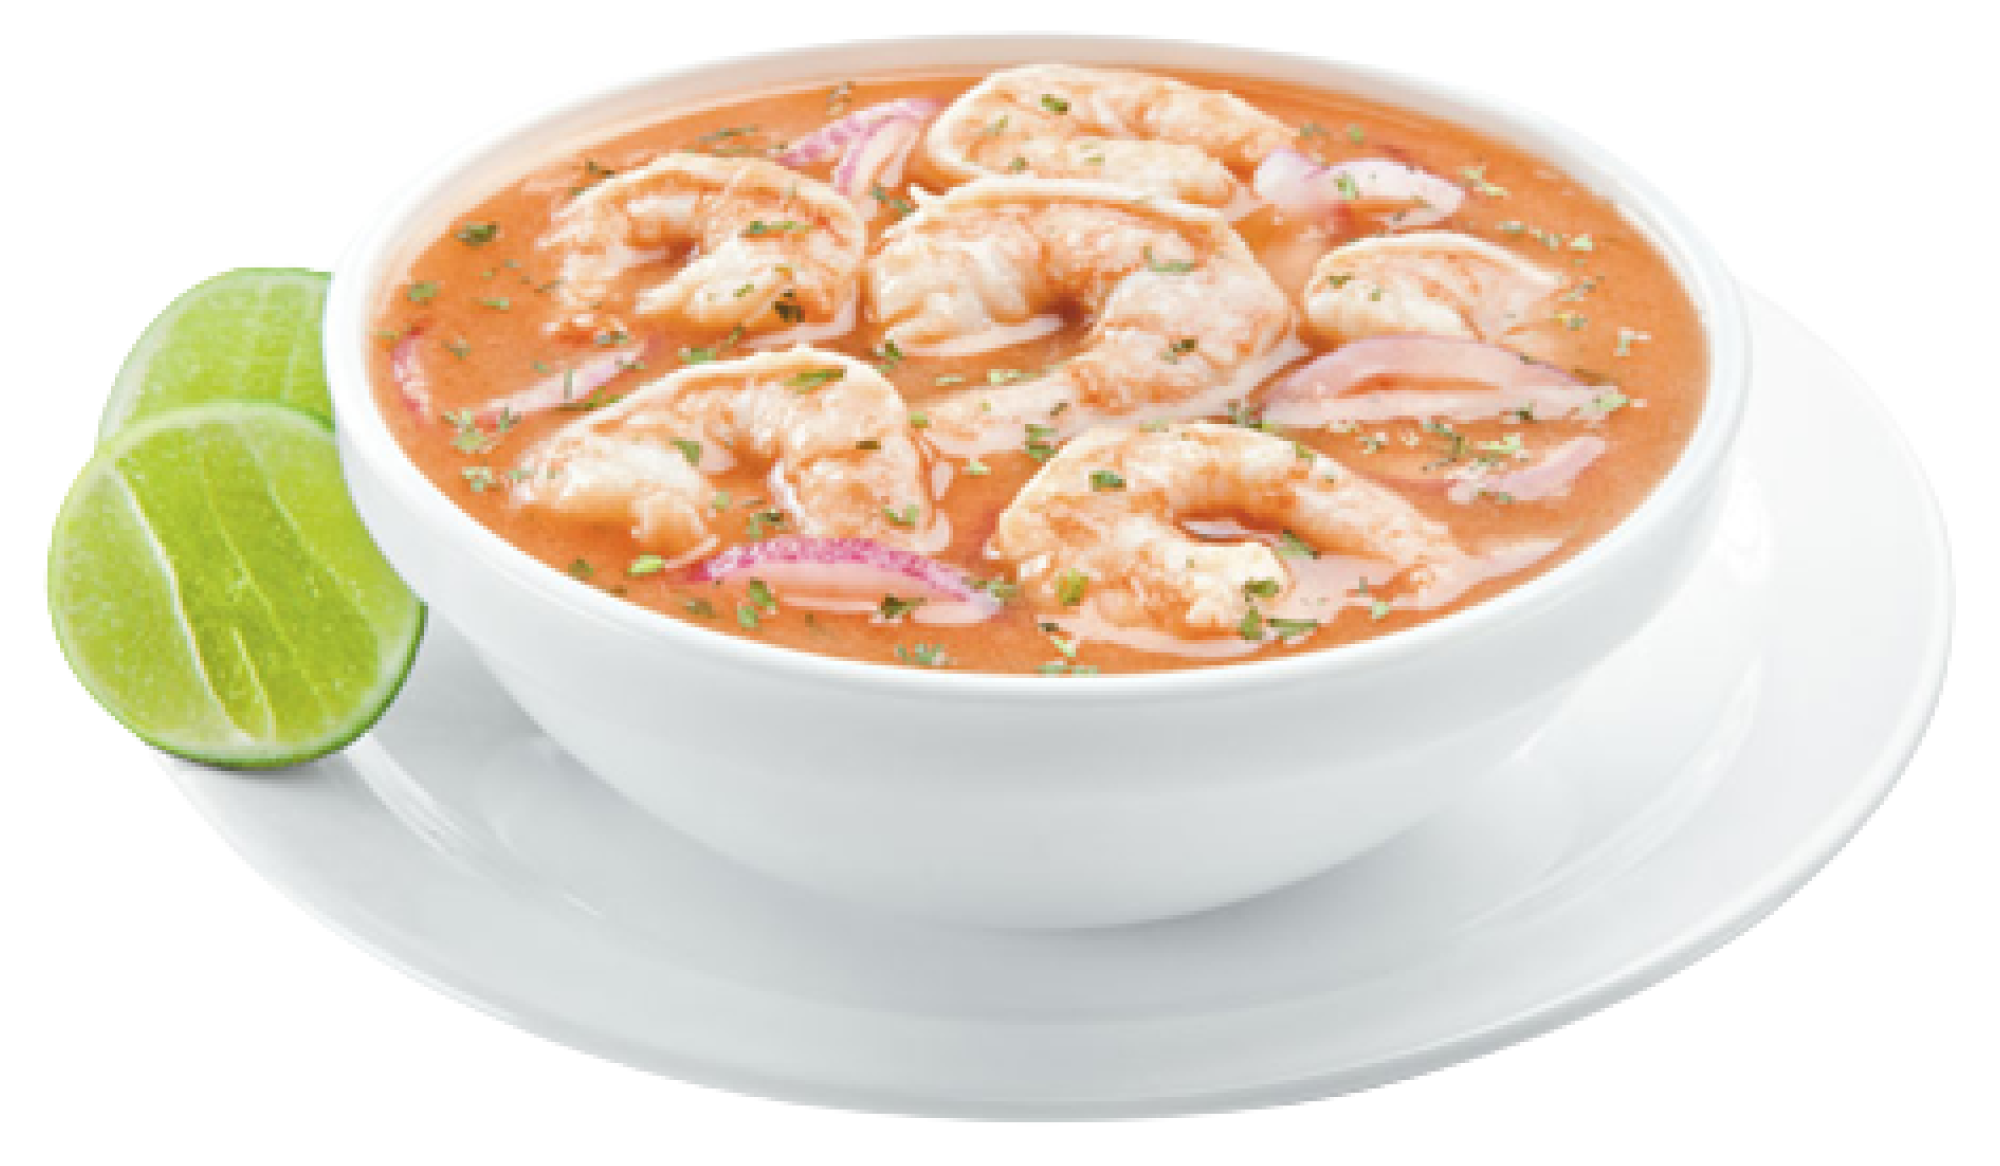
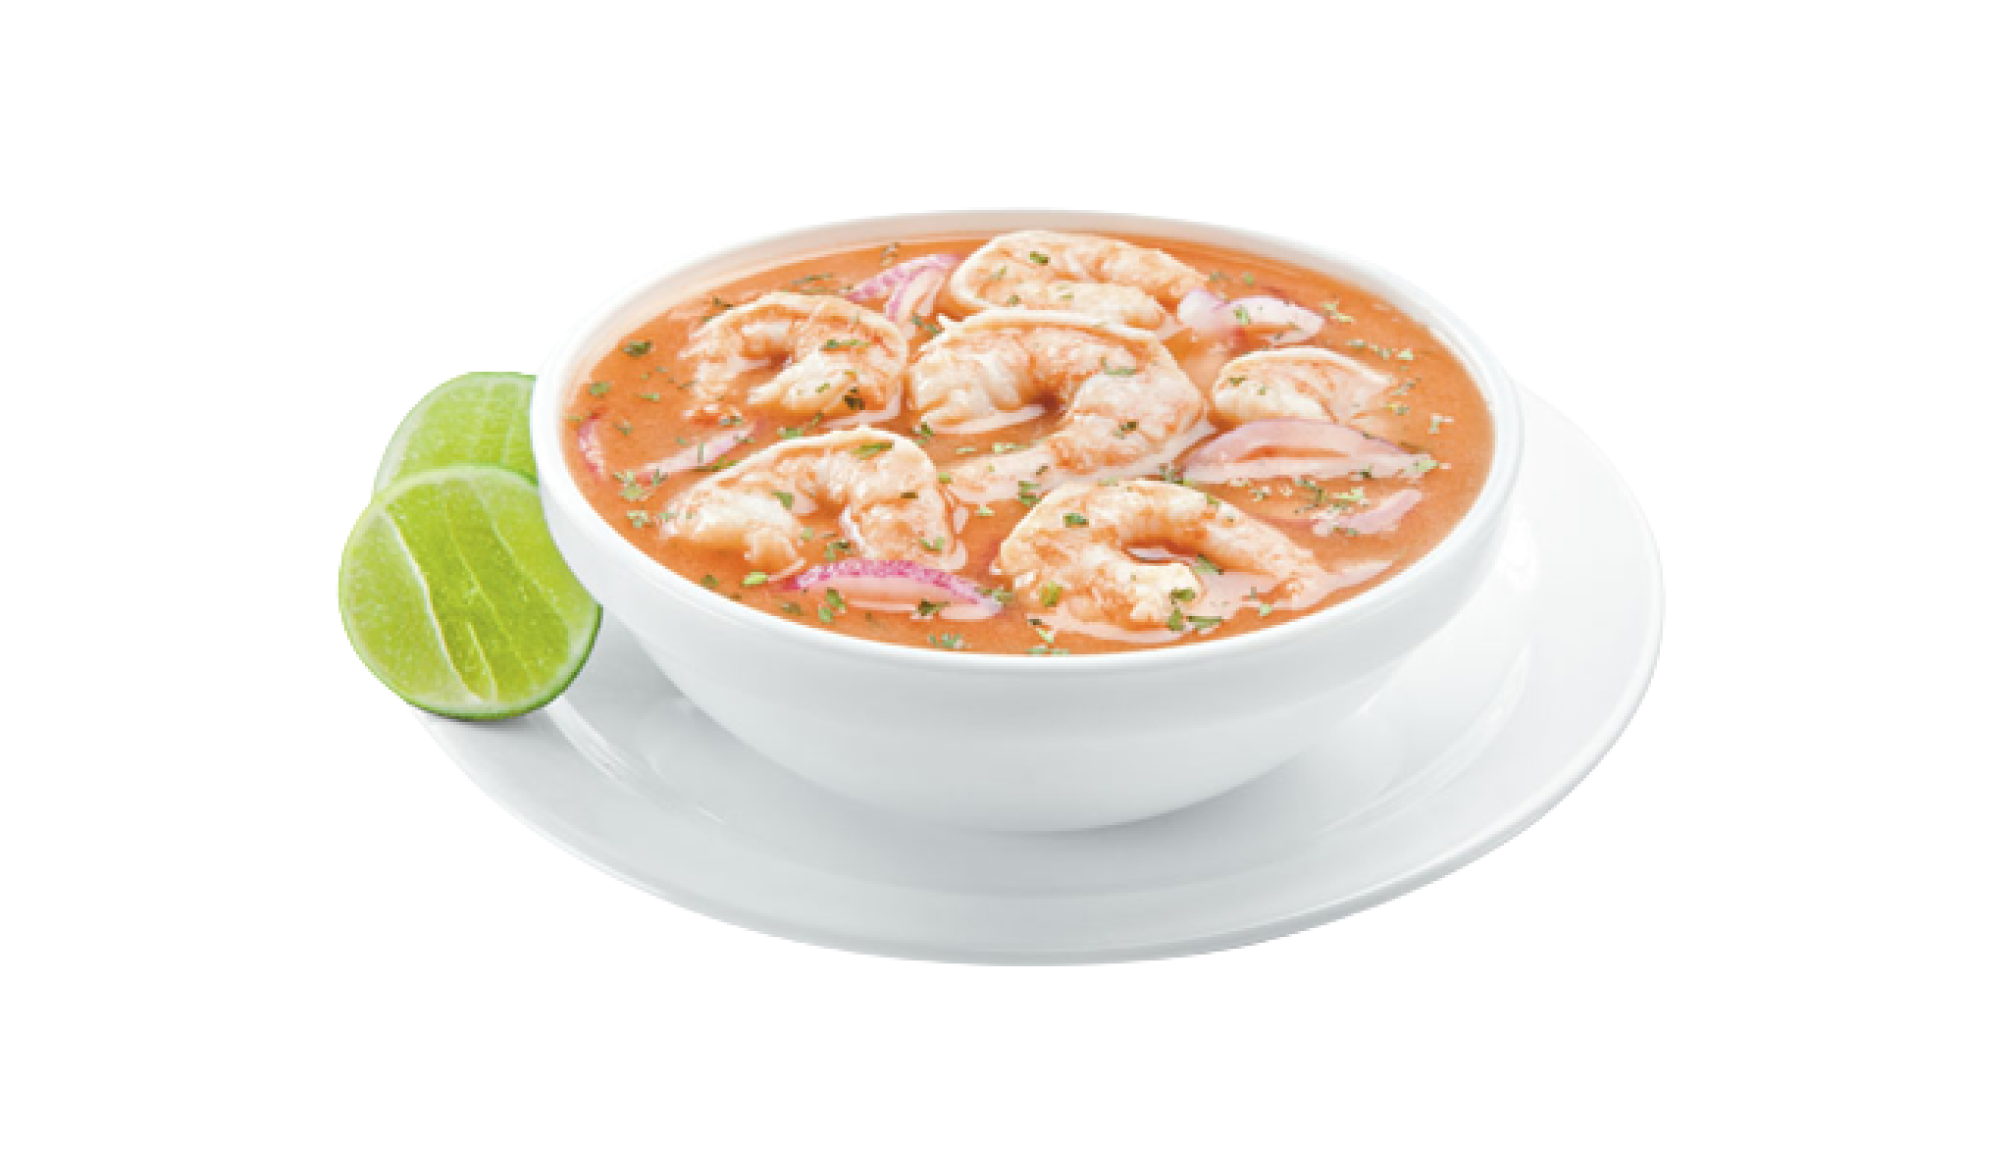
Adjusted images size and input style

diff --git a/src/components/Orders.jsx b/src/components/Orders.jsx
@@ -9,7 +9,9 @@ const Orders = () => {
     <>
       <Menu />
       <section className="orders-body">
-        <section className="client-name"></section>
+        <section className="client-name">
+          <input type="text" placeholder="client name" autocomplete="off" required />
+        </section>
         <section className="orders-container">
           <table className="product-table">
             <thead>
@@ -73,24 +75,40 @@ const Orders = () => {
             <div className="product-row-first">
               <div className="product-item">
                 <button>
-                  <img src="src/assets/product-empanada-morocho-2.png" alt="Product 1" />
+                  <figure className="image-container">
+                    <img src="src/assets/product-empanada-morocho-3.png" alt="Product 1" />
+                  </figure>
+                  <p className="product-description">MOROCHO PATTY</p>
+                  <p className="product-price">18.00</p>
                 </button>
               </div>
               <div className="product-item">
                 <button>
-                  <img src="src/assets/product-summer-rolls-2.png" alt="Product 2" />
+                  <figure className="image-container">
+                    <img src="src/assets/product-summer-rolls-2.png" alt="Product 2" />
+                  </figure>
+                  <p className="product-description">MOROCHO PATTY</p>
+                  <p className="product-price">18.00</p>
                 </button>
               </div>
             </div>
             <div className="product-row-second">
               <div className="product-item">
                 <button>
-                  <img src="src/assets/product-cebiche-2.png" alt="Product 3" />
+                  <figure className="image-container">
+                    <img src="src/assets/product-cebiche-2.png" alt="Product 3" />
+                  </figure>
+                  <p className="product-description">MOROCHO PATTY</p>
+                  <p className="product-price">18.00</p>
                 </button>
               </div>
               <div className="product-item">
                 <button>
-                  <img src="src/assets/product-pollo-agridulce-2.png" alt="Product 4" />
+                  <figure className="image-container">
+                    <img src="src/assets/product-pollo-agridulce-2.png" alt="Product 4" />
+                  </figure>
+                  <p className="product-description">MOROCHO PATTY</p>
+                  <p className="product-price">18.00</p>
                 </button>
               </div>
             </div>

diff --git a/src/styles/Orders.css b/src/styles/Orders.css
@@ -1,4 +1,5 @@
 @import url('https://fonts.googleapis.com/css2?family=Poiret+One&display=swap');
+@import url('https://fonts.googleapis.com/css2?family=Montserrat&display=swap');
 
 .orders-body {
     height: 83vh;
@@ -12,10 +13,27 @@
 }
 
 .client-name {
-    background-color: brown;
     height: 10%;
     width: 30%;
 }
+
+.client-name input {
+    width: 100%;
+    height: 55%;
+    border-radius: 4px 4px 0 0;
+    border: 0;
+    outline: 0;
+    border-bottom: 2px solid black;
+    font-family:'Poiret One';
+    font-size: 1.3rem;
+    padding: 5px 10px;
+    font-weight: lighter;
+    background: rgba(183, 110, 121, 0.842);
+}
+
+.client-name input::placeholder {
+    color: white;
+  }
 
 .orders-container {
     height: 90%;
@@ -36,7 +54,7 @@
 /*********************Second*********************/
 .menu-buttons {
     width: 15.5%;
-    height: 90%;
+    height: 100%;
 }
 
 .menu-buttons table {
@@ -104,9 +122,17 @@
     display: flex;
 }
 
-.product-selection .product-item img {
-    height: 35%;
-    width: 80%;
+.product-selection .product-item .image-container {
+    height: 60%;
+    display: flex;
+    align-items: center;
+}
+
+.product-selection .product-item .image-container img {
+    /*height: 100%;*/
+    width: 100%;
+    /*height: 35%;
+    width: 80%;*/
 
 }
 
@@ -114,7 +140,10 @@
     background-color: #0F1D22;
     height: 90%;
     width: 100%;
-    border:none;
+    border: none;
+    display: flex;
+    flex-direction: column;
+    align-items: center;
 }
 
 .product-selection .product-row-first {
@@ -134,4 +163,18 @@
 
 .product-selection .product-row-second .product-item button {
     margin-top: 15%;
+}
+
+.product-item button p {
+    height: 20%;
+}
+
+.product-item button .product-description {
+    color: #C9AB81;
+    font-family: 'Montserrat';
+}
+
+.product-item button .product-price {
+    color: white;
+    font-family: 'Poiret One';
 }
